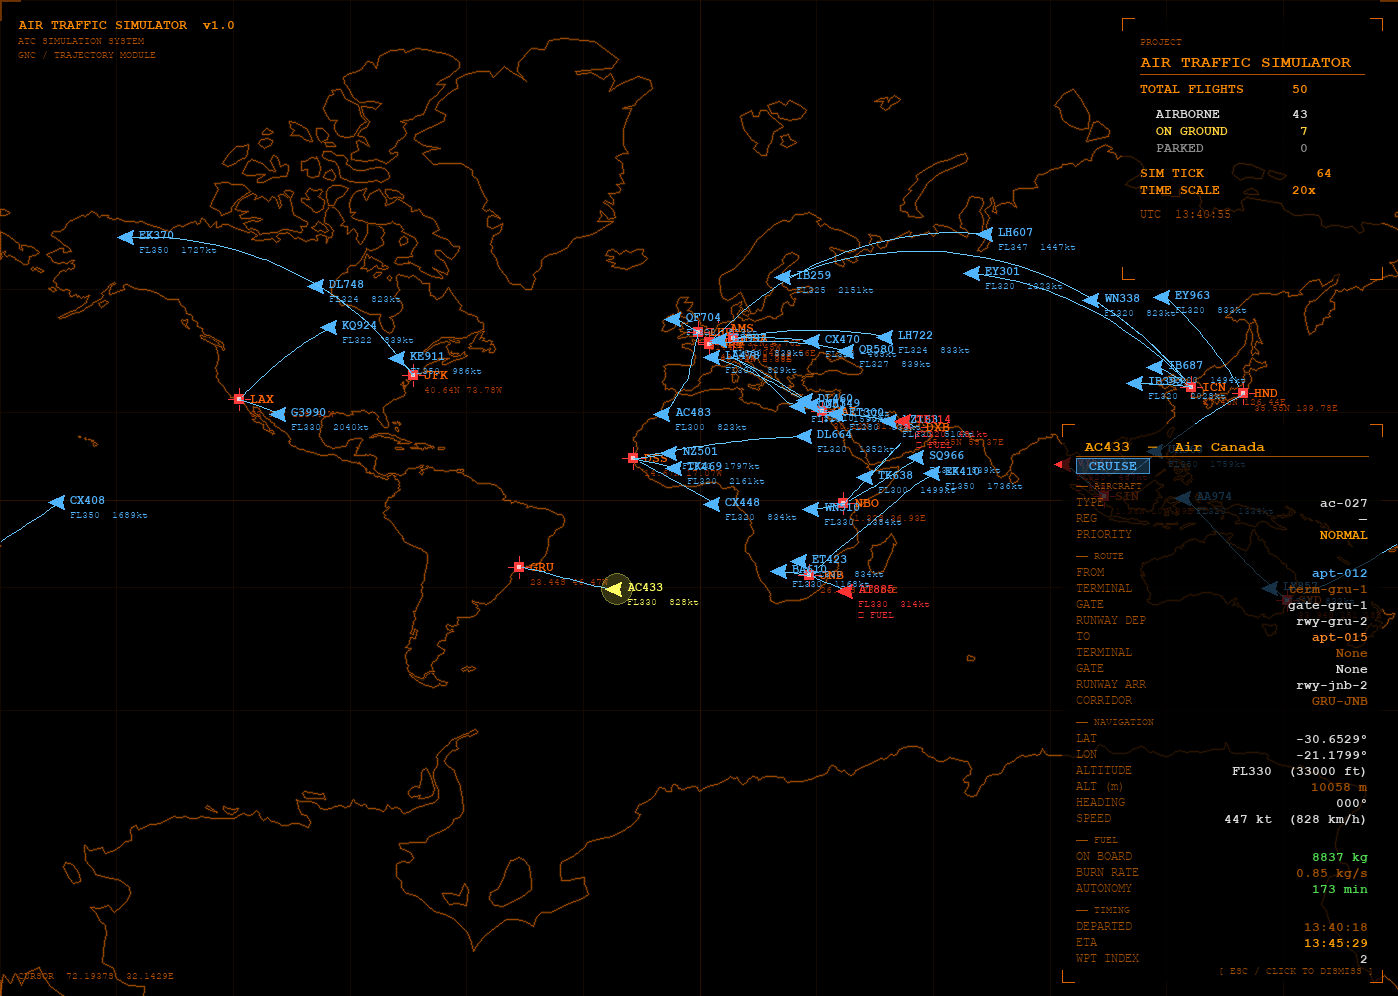
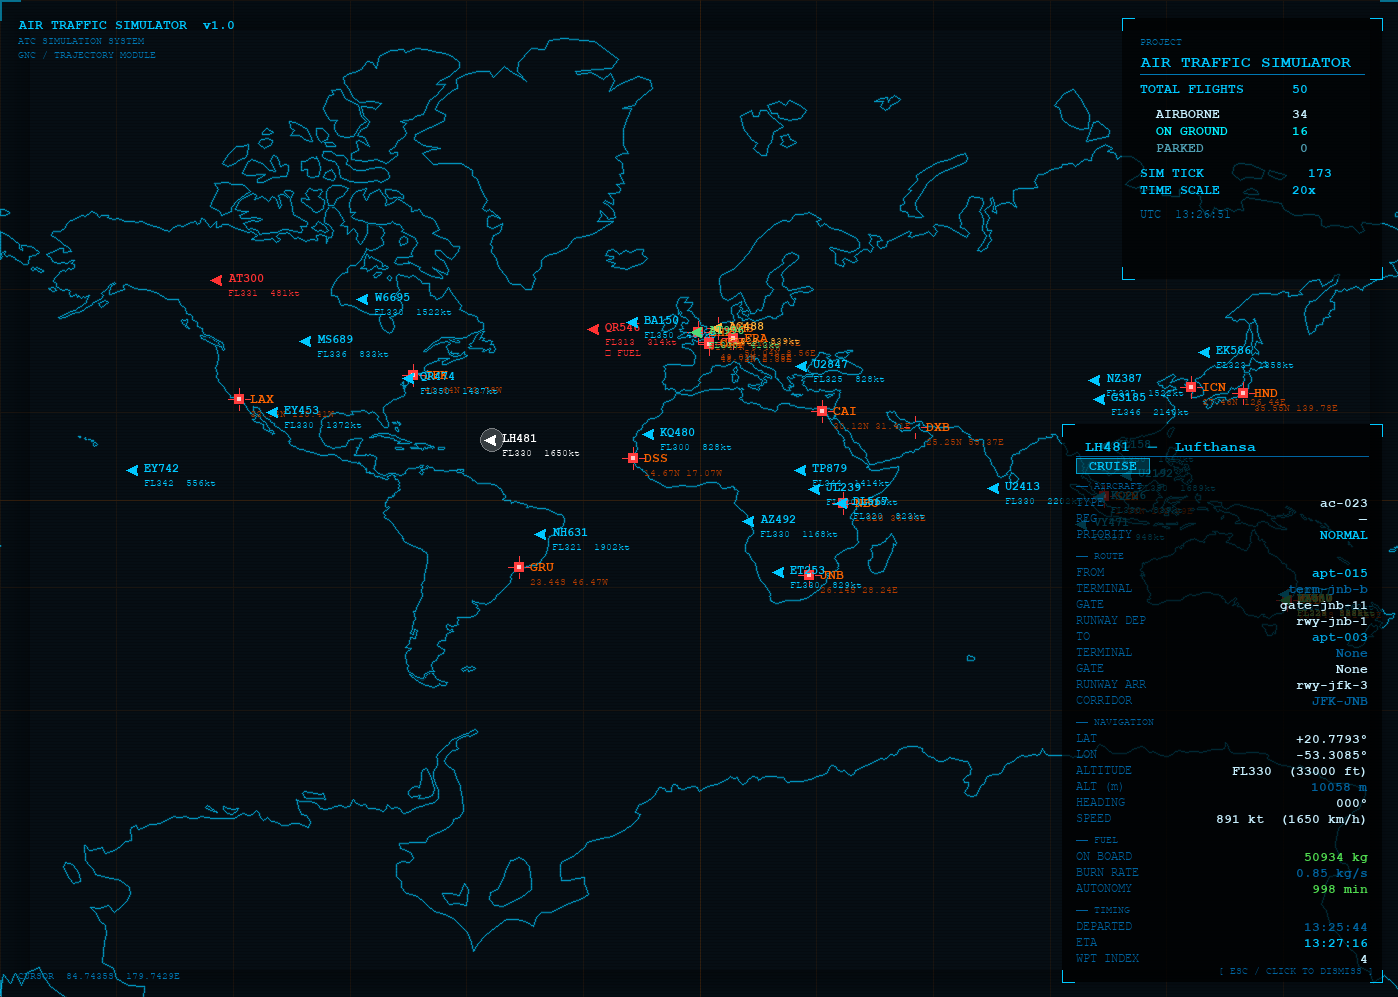
feat: updated README.md

diff --git a/README.md b/README.md
@@ -19,13 +19,10 @@
 8. [Consommation par phase de vol](#8-consommation-par-phase-de-vol)
 9. [Navigation sphérique — formule de Haversine](#9-navigation-sphérique--formule-de-haversine)
 10. [Propagation de position — interpolation géodésique](#10-propagation-de-position--interpolation-géodésique)
-11. [Cap (heading)](#11-cap-heading)
-12. [Modèle de montée/descente](#12-modèle-de-montéedescente)
-13. [ETA complète du vol](#13-eta-complète-du-vol)
-14. [Rendu cartographique](#14-rendu-cartographique)
-15. [Pathfinding taxiway — algorithme A*](#15-pathfinding-taxiway--algorithme-a)
-16. [Gestion des corridors aériens](#16-gestion-des-corridors-aériens)
-17. [Constantes et paramètres de référence](#17-constantes-et-paramètres-de-référence)
+11. [Modèle de montée/descente](#12-modèle-de-montéedescente)
+12. [ETA complète du vol](#13-eta-complète-du-vol)
+13. [Pathfinding taxiway — algorithme A*](#15-pathfinding-taxiway--algorithme-a)
+14. [Constantes et paramètres de référence](#17-constantes-et-paramètres-de-référence)
 
 ---
 
@@ -298,19 +295,7 @@ $$v_{\text{km/s}} = \frac{d}{t_{\text{restant}}}$$
 
 ---
 
-## 11. Cap (heading)
-
-Le cap indique la direction vers laquelle pointe l'avion, affiché sous forme de triangle orienté dans le visualizer. Comme le trajet suit un grand cercle sur une sphère, ce cap change continuellement au fil du vol — un vol Paris–New York, par exemple, commence vers le nord-ouest et finit vers le sud-ouest.
-
-Le cap magnétique (azimut initial du grand cercle) est calculé par :
-
-$$\theta = \arctan2\!\left(\sin\Delta\lambda \cos\varphi_2,\; \cos\varphi_1\sin\varphi_2 - \sin\varphi_1\cos\varphi_2\cos\Delta\lambda\right)$$
-
-converti en degrés $[0°, 360°)$ pour l'affichage.
-
----
-
-## 12. Modèle de montée/descente
+## 11. Modèle de montée/descente
 
 Les avions ne passent pas instantanément d'une altitude à une autre : ils sont limités par leur **taux de montée** maximal, exprimé en pieds par minute. À chaque tick, le simulateur calcule de combien l'avion peut progresser vers l'altitude cible de son prochain waypoint, et plafonne ce déplacement si nécessaire.
 
@@ -334,7 +319,7 @@ $$h^{(k+1)} = \begin{cases} h_{\text{target}} & \text{si } |h_{\text{target}} - 
 
 ---
 
-## 13. ETA complète du vol
+## 12. ETA complète du vol
 
 L'heure d'arrivée estimée (ETA) est affichée dans le panneau d'information d'un vol sélectionné. Elle ne se contente pas de diviser la distance restante par la vitesse : elle somme les temps de tous les segments du trajet encore à parcourir, en ajoutant les durées fixes des phases terminales.
 
@@ -354,47 +339,7 @@ L'ETA est recalculée à chaque tick CRUISE pour intégrer les variations de vit
 
 ---
 
-## 14. Rendu cartographique
-
-### Projection de Mercator
-
-Le visualizer affiche une carte du monde en **projection de Mercator Web** (EPSG:3857), la même que Google Maps ou OpenStreetMap. Cette projection a la propriété de conserver les angles locaux (conformité), ce qui permet d'afficher correctement les caps des avions. En contrepartie, elle déforme les surfaces aux hautes latitudes et ne peut pas représenter les pôles.
-
-La latitude $\varphi$ est transformée en ordonnée normalisée $n_y \in [0, 1]$ :
-
-$$\psi(\varphi) = \ln\!\left(\tan\!\frac{\pi}{4} + \frac{\varphi}{2}\right), \qquad \psi_{\max} = \ln\!\left(\tan\!\frac{\pi}{4} + \frac{85°}{2}\right)$$
-
-$$\boxed{n_y = \frac{1}{2} - \frac{\psi(\varphi)}{2\,\psi_{\max}}}$$
-
-La longitude est projetée linéairement : $n_x = (\lambda + 180°) / 360°$
-
-La projection est clampée à $\pm 85°$ de latitude pour éviter la singularité aux pôles ($\psi \to \pm\infty$).
-
-**Projection inverse** (pixel → géographie, pour l'affichage des coordonnées sous le curseur) :
-
-$$\varphi = 2\arctan\!\left(e^{\psi}\right) - \frac{\pi}{2}, \qquad \psi = (1 - n_y) \times 2\psi_{\max} - \psi_{\max}$$
-
-### Zoom & pan
-
-Le zoom est centré sur la position du curseur : le point sous la souris reste fixe pendant le zoom. La transformation écran applique zoom et décalage de caméra :
-
-$$\begin{pmatrix} p_x \\ p_y \end{pmatrix} = \begin{pmatrix} (n_x \cdot W - c_x) \cdot z + c_x - \delta_x \\ (n_y \cdot H - c_y) \cdot z + c_y - \delta_y \end{pmatrix}$$
-
-avec $(c_x, c_y) = (W/2, H/2)$ le centre de la fenêtre, $z$ le facteur de zoom, $(\delta_x, \delta_y)$ le décalage de pan.
-
-**Zoom centré sur le curseur** — mise à jour du pan pour maintenir le point $(m_x, m_y)$ fixe après un changement $z \to z'$ :
-
-$$\delta_x' = \frac{z'}{z}\,(\delta_x + m_x - c_x) - (m_x - c_x), \qquad \delta_y' = \frac{z'}{z}\,(\delta_y + m_y - c_y) - (m_y - c_y)$$
-
-**Contrainte de pan** (empêcher de sortir de la carte) :
-
-$$|\delta_x| \leq \frac{(z-1) \cdot W}{2}, \qquad |\delta_y| \leq \frac{(z-1) \cdot H}{2}$$
-
-**Fichier :** `shared/adapter/visualizer/renderer/world_map.py`, `shared/adapter/visualizer/visualizer.py`
-
----
-
-## 15. Pathfinding taxiway — algorithme A*
+## 13. Pathfinding taxiway — algorithme A*
 
 Lorsqu'un avion reçoit une piste de départ, le simulateur doit calculer l'itinéraire optimal sur les taxiways qui le mènent de sa gate au seuil de piste. Ce graphe peut compter des dizaines de nœuds (intersections, gates, seuils) et d'arêtes (segments de taxiway). L'algorithme **A\*** est utilisé car il est optimal et bien plus rapide qu'une recherche exhaustive : son heuristique lui permet d'explorer en priorité les chemins qui semblent prometteurs.
 
@@ -420,29 +365,7 @@ L'heuristique est **admissible** car la distance à vol d'oiseau (haversine) ne 
 
 ---
 
-## 16. Gestion des corridors aériens
-
-Un corridor aérien est une route prédéfinie entre deux aéroports, avec une liste de waypoints, une altitude de croisière et une capacité maximale simultanée. Chaque avion qui décolle se voit assigner un corridor disponible vers une destination.
-
-**Sélection en deux étapes** — pour éviter que tous les vols convergent vers les mêmes destinations, la destination est tirée en premier, puis le corridor :
-
-1. Construire l'ensemble des destinations atteignables depuis l'aéroport de départ $A$ :
-
-$$\mathcal{D}(A) = \left\{ \text{dest}(c) \mid c \in \mathcal{C},\; c.\text{has\_capacity}() \wedge c.\text{is\_open}() \wedge (c.from = A \vee (c.dir = \text{BIDI} \wedge c.to = A)) \right\}$$
-
-2. Tirer uniformément une destination $d \sim \mathcal{U}(\mathcal{D}(A))$, puis tirer uniformément un corridor $c \sim \mathcal{U}(\{c \mid \text{dest}(c) = d\})$.
-
-Ce double tirage évite le biais qui surchargerait les destinations ayant le plus de corridors disponibles.
-
-**Support bidirectionnel :** un corridor $A \to B$ marqué `BIDIRECTIONAL` peut être emprunté dans les deux sens. Lorsqu'un vol part depuis $B$ :
-
-$$\text{arrival\_airport} = \begin{cases} c.to & \text{si } c.from = \text{depart} \\ c.from & \text{si } c.to = \text{depart} \land c.dir = \text{BIDI} \end{cases}$$
-
-**Fichier :** `air_corridor/application/corridor_service.py`
-
----
-
-## 17. Constantes et paramètres de référence
+## 14. Constantes et paramètres de référence
 
 | Constante | Valeur | Source |
 |---|---|---|